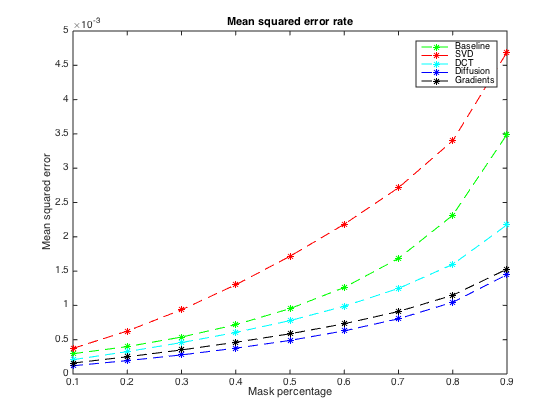
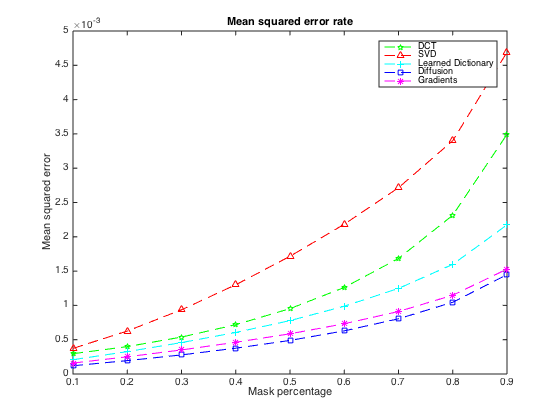
updated figures and plot script

diff --git a/inpainting/evaluation_plot.m b/inpainting/evaluation_plot.m
@@ -9,7 +9,7 @@ svd = load('SVD.mat');
 
 %box plot for time execution std
 fig_timestd = figure;
-boxplot([dct.Time_Mean',base.Time_Mean',gradients.Time_Mean',svd.Time_Mean',diffusion.Time_Mean'],{'DCT','Baseline', 'Gradients','SVD','Diffusion'});
+boxplot([dct.Time_Mean',base.Time_Mean',gradients.Time_Mean',svd.Time_Mean',diffusion.Time_Mean'],{'Learned Dictionary','DCT', 'Gradients','SVD','Diffusion'});
 
 title('Runtime standard deviation');
 ylabel('Runtime');
@@ -17,9 +17,9 @@ ylabel('Runtime');
 % plot for mse
 fig_mse = figure;
 x = linspace(0.1,0.9,9);
-plot(x, base.Result_Mean, '--g*', x, svd.Result_Mean, '--r*', x, dct.Result_Mean, '--c*', x, diffusion.Result_Mean, '--b*', x,gradients.Result_Mean, '--k*');
+plot(x, base.Result_Mean, '--gp', x, svd.Result_Mean, '--r^', x, dct.Result_Mean, '--c+', x, diffusion.Result_Mean, '--bs', x,gradients.Result_Mean, '--m*');
 
-legend('Baseline','SVD','DCT','Diffusion','Gradients');
+legend('DCT','SVD','Learned Dictionary','Diffusion','Gradients');
 title('Mean squared error rate');
 xlabel('Mask percentage');
 ylabel('Mean squared error');
